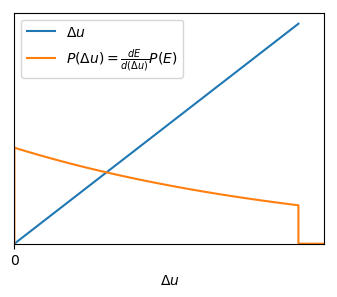
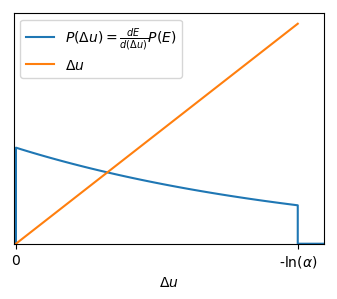
Created python script to plot Figures

diff --git a/IllustrationPlotters.py b/IllustrationPlotters.py
@@ -11,7 +11,7 @@ x_rect=np.concatenate([[0,alpha],x,[1]])
 y=alpha*(x-x+1)#hack to make y=alpha with the same shape of x, quickly.
 y_rect=np.concatenate([[0,0],y,[0]])
 
-Figure = "Fig2"
+Figure = "Fig1"
 
 if Figure=="Fig1":
 	#Create other distributions
@@ -25,34 +25,39 @@ if Figure=="Fig1":
 	ax.set_xticks([alpha,1])
 	ax.set_xticklabels([r"$\alpha E_i$",r"$E_i$"])
 	ax.set_xlabel(r"Final energy after collision $E_f$")
+	ax.set_xlim(0,1.004)
 
 if Figure=="Fig2":
 	x2 = np.linspace(0,-np.log(alpha))
 	y2 = x2
-	ax.plot(x2,y2,label="$ \Delta u$")
 	#make prob dist look nicer
 	x2rect=np.concatenate([[0],x2,[-np.log(alpha),1]])
 	y2rect=np.concatenate([[0],0.4*np.e**(-x2),[0,0]])
 	ax.plot(x2rect,y2rect,label=r"$P(\Delta u)=\frac{dE}{d(\Delta u)}P(E)$")
+	ax.plot(x2,y2,label="$ \Delta u$")
 	ax.set_xlabel(r"$\Delta u$")
-	ax.set_xticks([0,np.log(-alpha)])
+	ax.set_xticks([0,np.log(1/alpha)])
 	ax.set_xticklabels(["0",r"-ln($\alpha$)"])
-
+	ax.set_xlim(-0.008,1)
 
 if Figure=="Fig3":
-	xlong=np.linspace(0,1)
+	xlong=np.linspace(0.2,1,100)
 	ylong=np.log(1/xlong)
 	ax.plot(x_rect,y_rect,label="P(E)")
 	ax.plot(xlong,ylong,label=r"$\Delta$ u(E)")
+
+	midpt=(alpha+1)/2
 	if "Dotted line":
-		xdot=[]
-		ydot=[]
-		xdot.append(1)
-		ydot.append(1)
+		xdot=[midpt]
+		ydot=[0.4]
+		xdot.append(midpt)
+		ydot.append(np.log(1/midpt))
+		xdot.append(0)
+		ydot.append(np.log(1/midpt))
 	ax.plot(xdot,ydot, linestyle="--")
+	ax.set_xlim(0,1.004)
 
 #set y axes, legend, and save.
-ax.set_xlim(0,1)
 ax.set_ylim(bottom=0)
 ax.set_yticks([])
 ax.legend()
